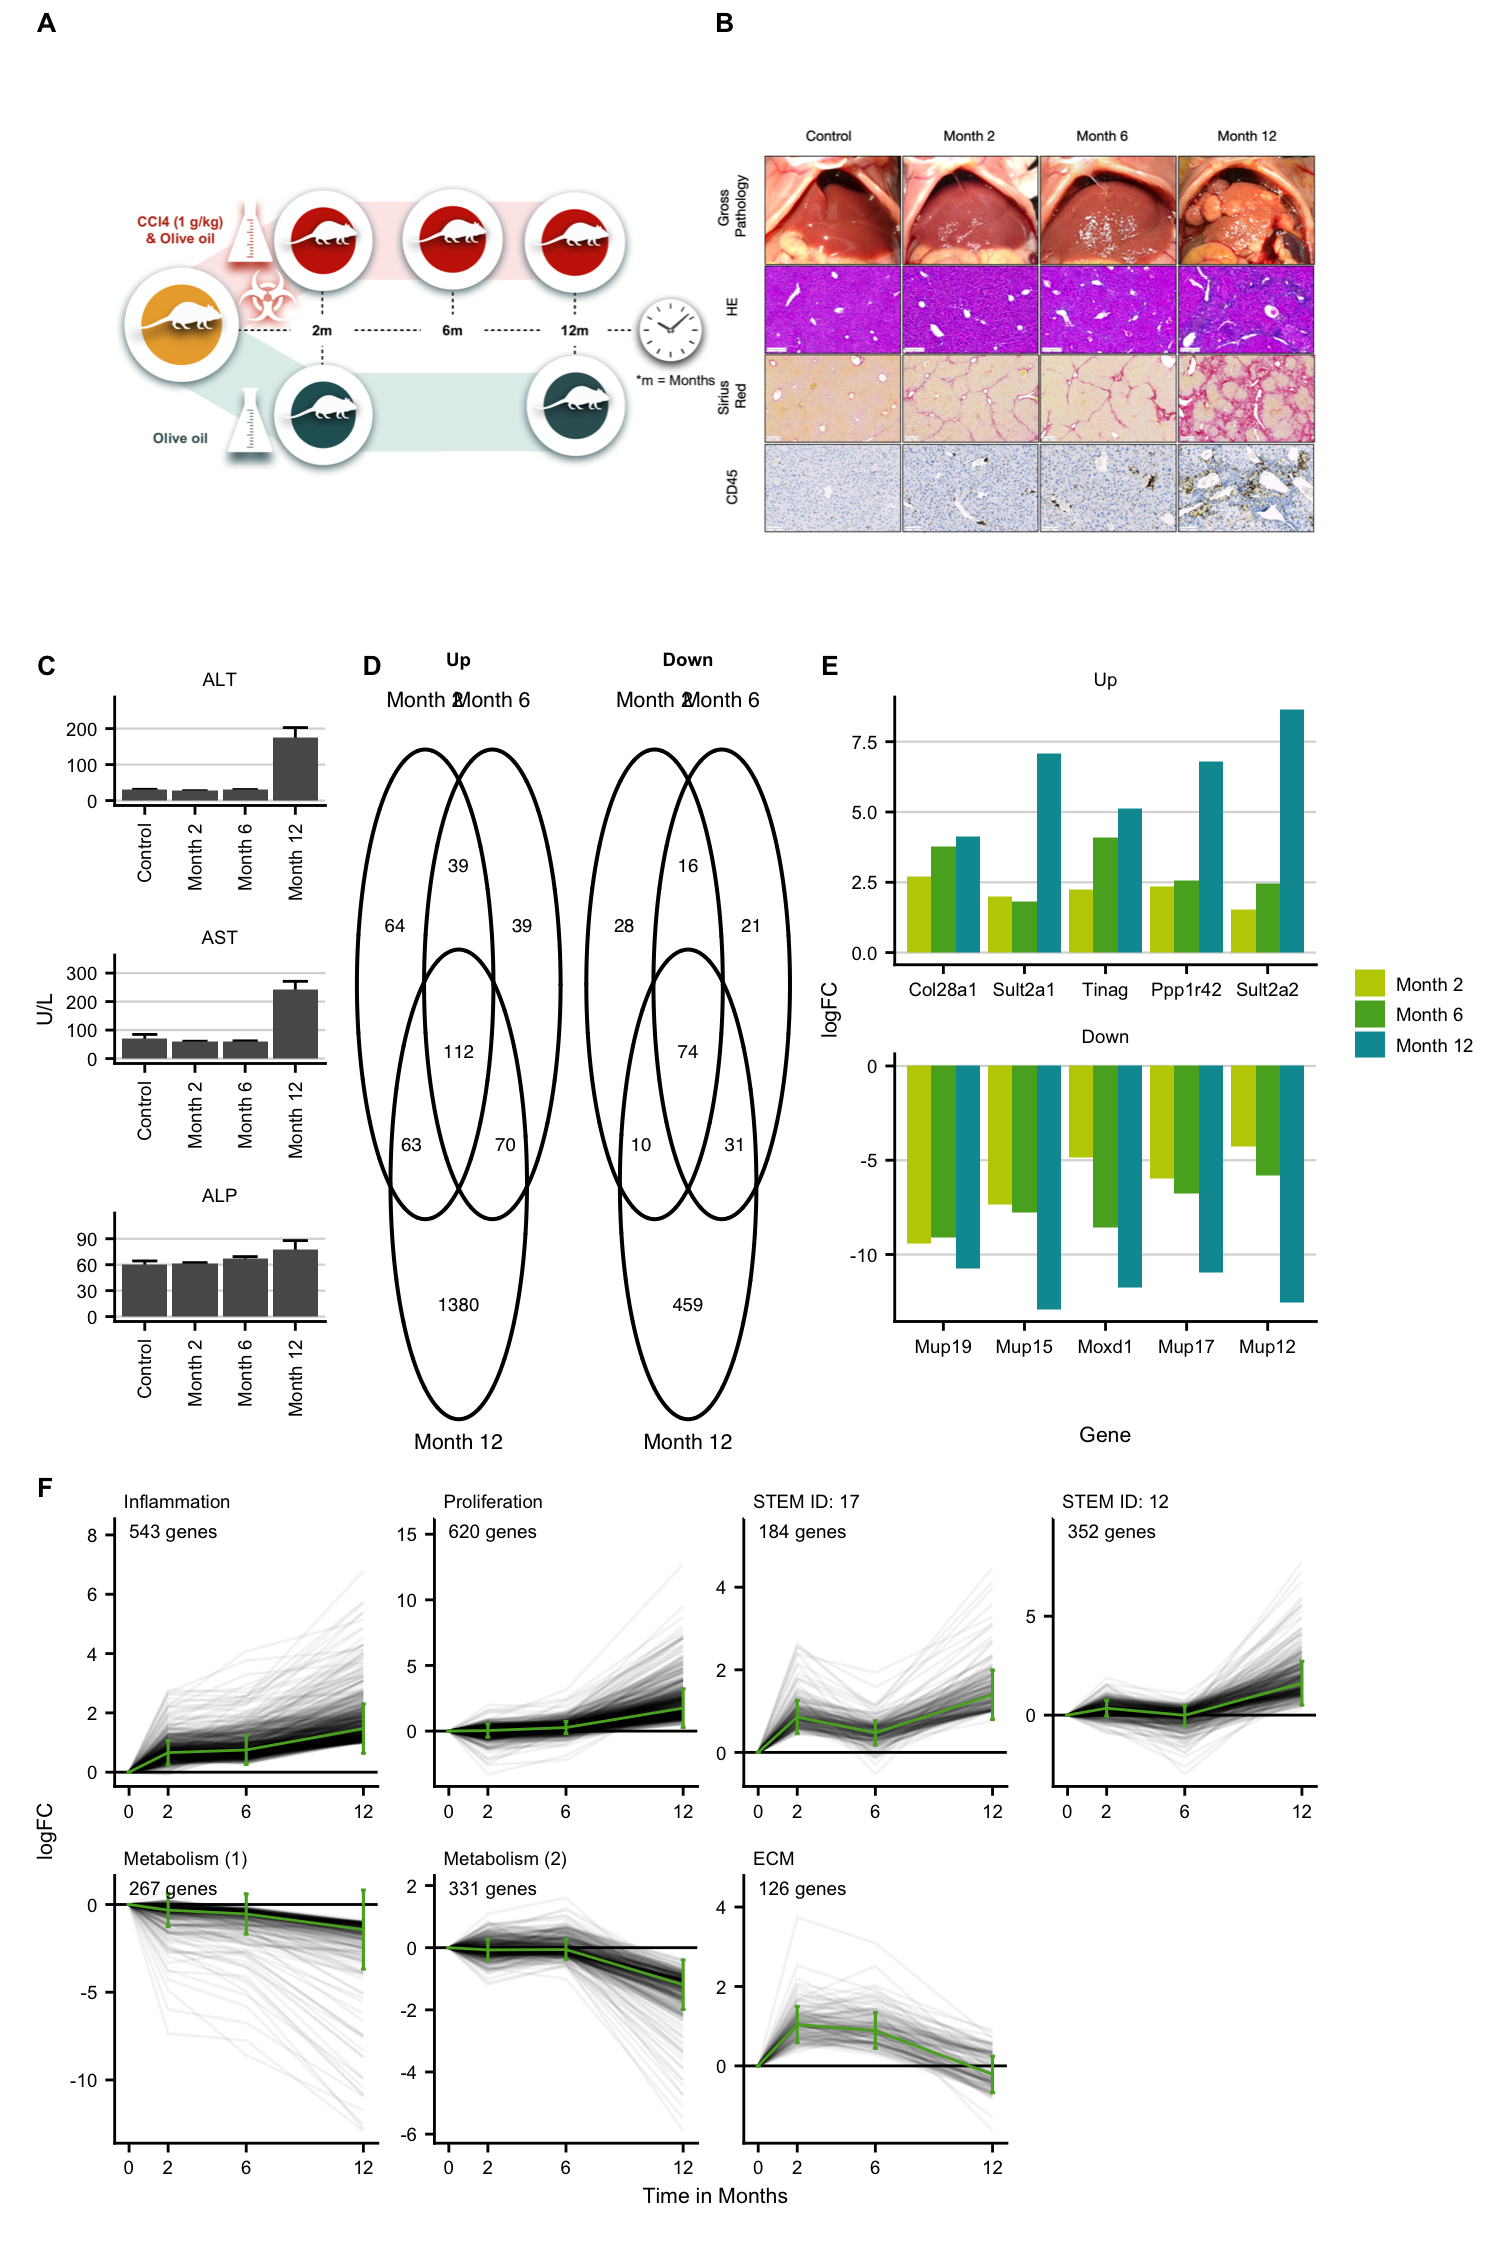
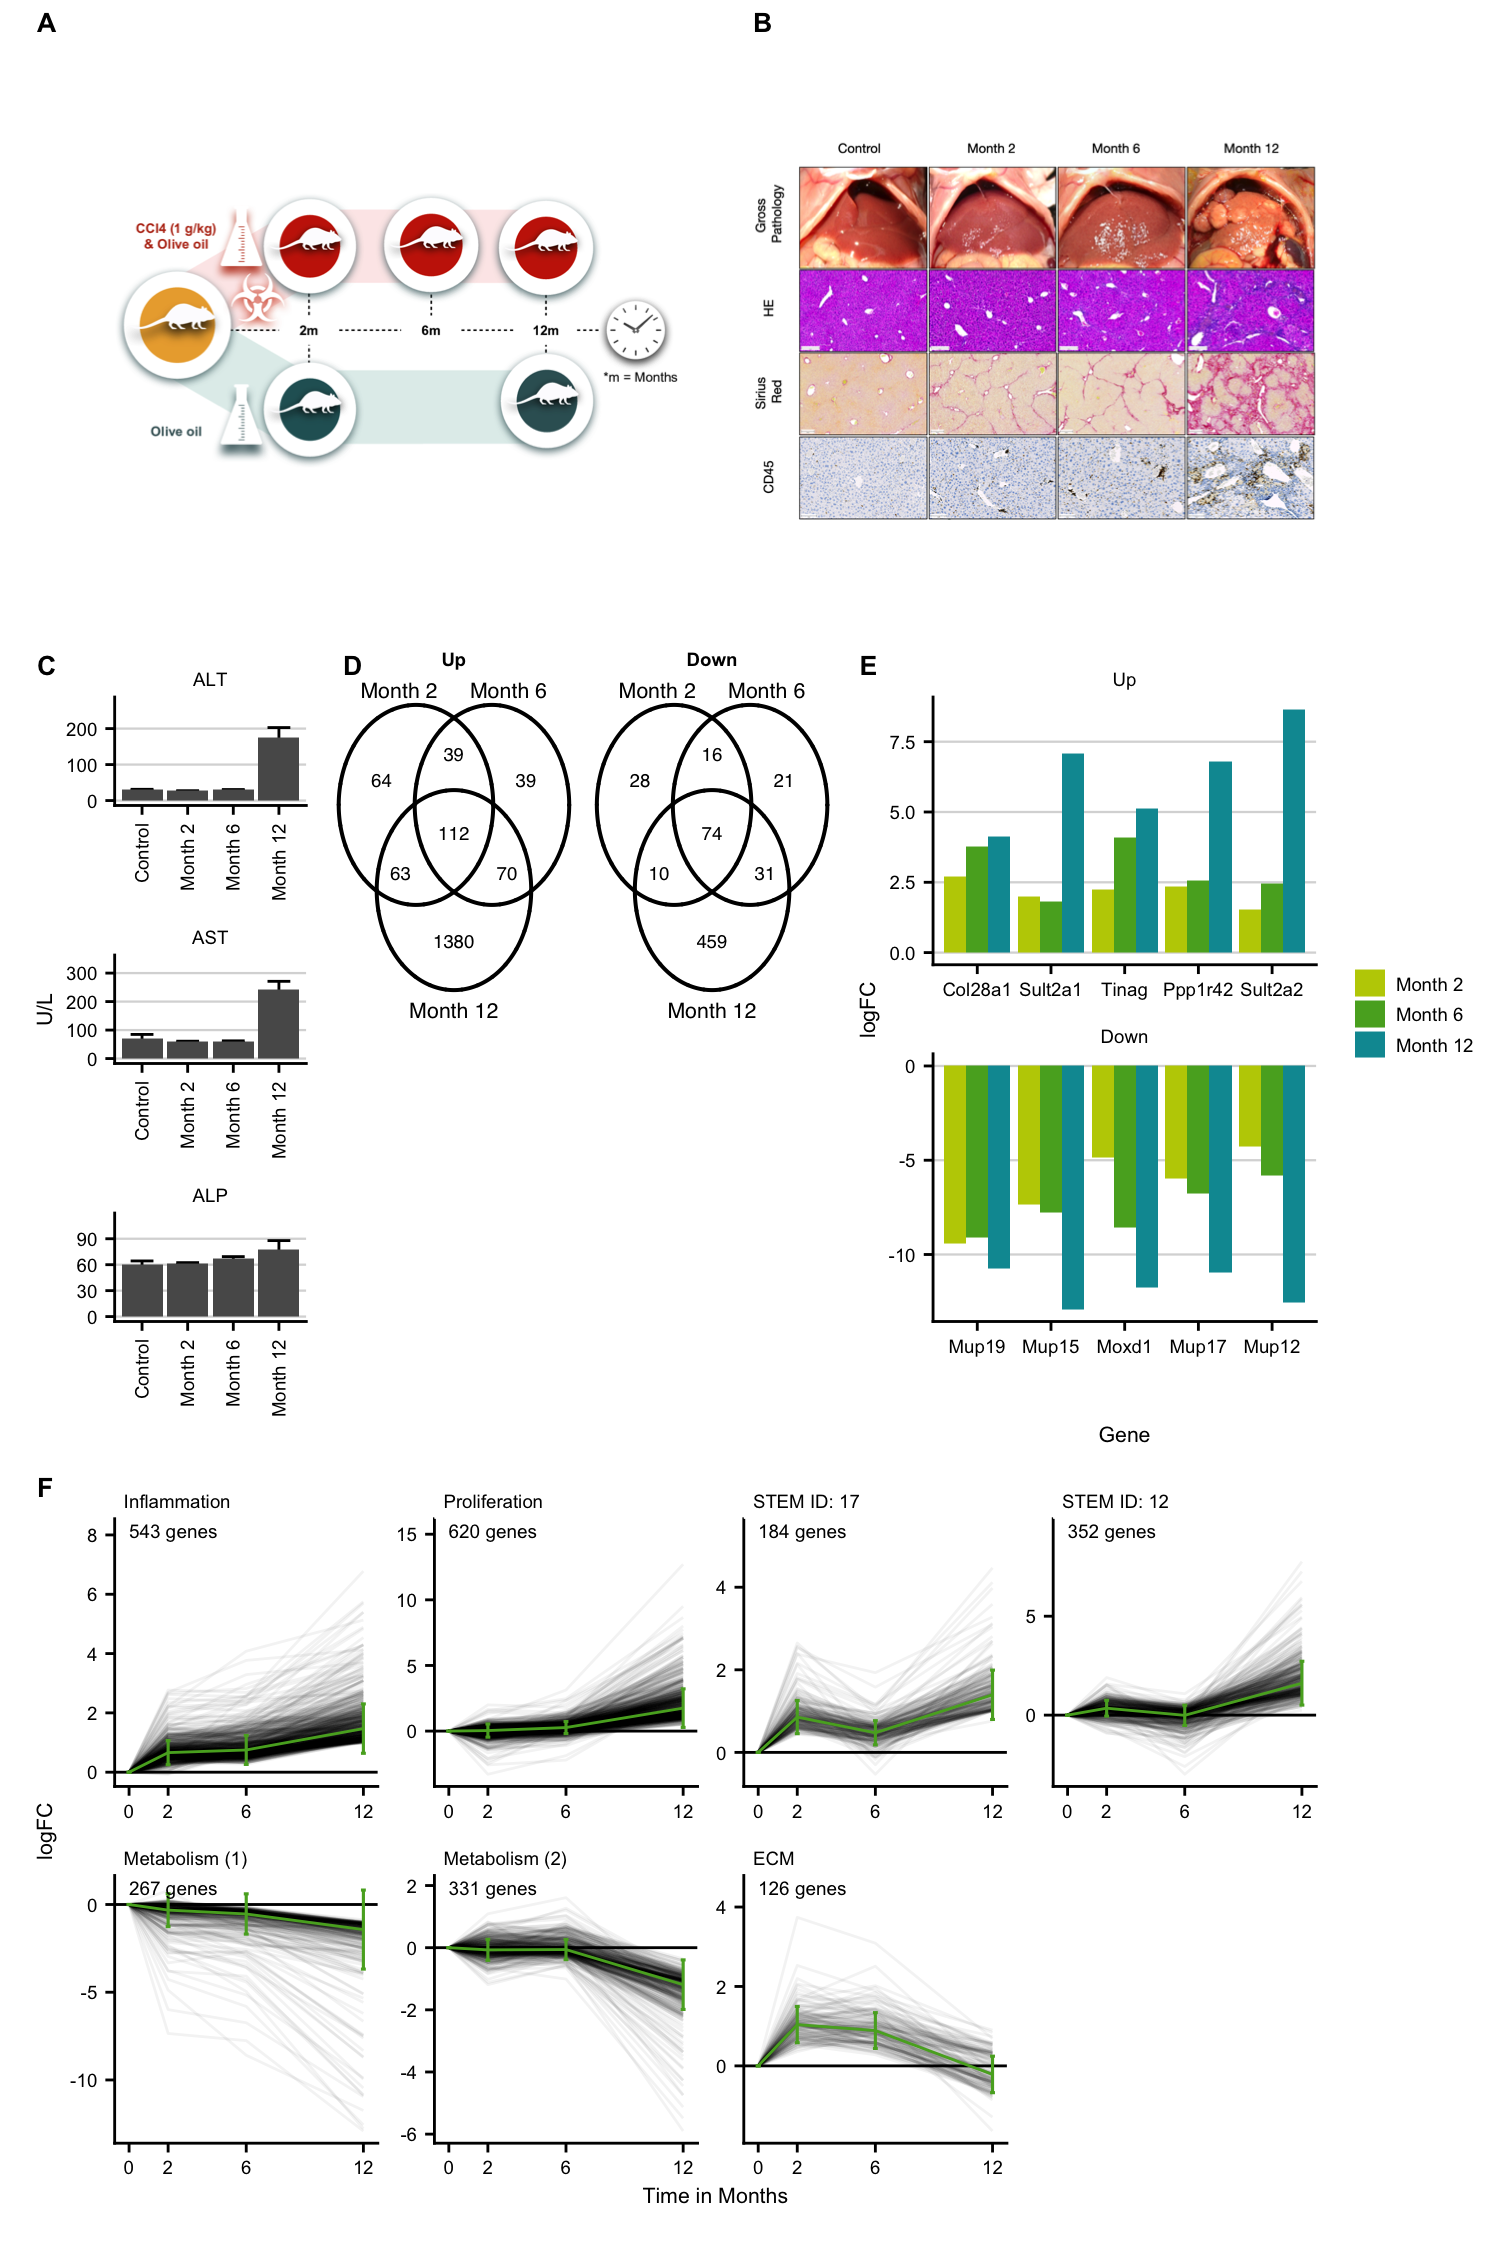
Build site.

diff --git a/docs/plot-chronic-ccl4.html b/docs/plot-chronic-ccl4.html
@@ -478,6 +478,12 @@ div.tocify {
     <li>
       <a href="plot-chronic-vs-acute.html">Chronic vs. acute (Fig. 3)</a>
     </li>
+    <li>
+      <a href="plot-mouse-vs-human.html">Mouse vs. human (Fig. 4)</a>
+    </li>
+    <li>
+      <a href="plot-precision-recall.html">Precision and recall of mouse models (Fig. 5)</a>
+    </li>
   </ul>
 </li>
       </ul>
@@ -538,7 +544,7 @@ div.tocify {
 <div class="tab-content">
 <div id="summary" class="tab-pane fade in active">
 <p>
-<strong>Last updated:</strong> 2020-12-23
+<strong>Last updated:</strong> 2021-01-05
 </p>
 <p>
 <strong>Checks:</strong> <span class="glyphicon glyphicon-ok text-success" aria-hidden="true"></span> 7 <span class="glyphicon glyphicon-exclamation-sign text-danger" aria-hidden="true"></span> 0
@@ -629,16 +635,16 @@ This reproducible <a href="http://rmarkdown.rstudio.com">R Markdown</a> analysis
 <div class="panel panel-default">
 <div class="panel-heading">
 <p class="panel-title">
-<a data-toggle="collapse" data-parent="#workflowr-checks" href="#strongRepositoryversionstrongahrefhttpsgithubcomsaezlabmetalivertreed4f78fae08eb96da82f28d39a0c6d2962abb7ecdtargetblankd4f78faa"> <span class="glyphicon glyphicon-ok text-success" aria-hidden="true"></span> <strong>Repository version:</strong> <a href="https://github.com/saezlab/meta-liver/tree/d4f78fae08eb96da82f28d39a0c6d2962abb7ecd" target="_blank">d4f78fa</a> </a>
+<a data-toggle="collapse" data-parent="#workflowr-checks" href="#strongRepositoryversionstrongahrefhttpsgithubcomsaezlabmetalivertree9f91208b2d719596cc07f2b9a0704edf0e8ada9etargetblank9f91208a"> <span class="glyphicon glyphicon-ok text-success" aria-hidden="true"></span> <strong>Repository version:</strong> <a href="https://github.com/saezlab/meta-liver/tree/9f91208b2d719596cc07f2b9a0704edf0e8ada9e" target="_blank">9f91208</a> </a>
 </p>
 </div>
[2 lines of base64/hex data omitted]
 <div class="panel-body">
 <p>
 Great! You are using Git for version control. Tracking code development and connecting the code version to the results is critical for reproducibility.
 </p>
 <p>
-The results in this page were generated with repository version <a href="https://github.com/saezlab/meta-liver/tree/d4f78fae08eb96da82f28d39a0c6d2962abb7ecd" target="_blank">d4f78fa</a>. See the <em>Past versions</em> tab to see a history of the changes made to the R Markdown and HTML files.
+The results in this page were generated with repository version <a href="https://github.com/saezlab/meta-liver/tree/9f91208b2d719596cc07f2b9a0704edf0e8ada9e" target="_blank">9f91208</a>. See the <em>Past versions</em> tab to see a history of the changes made to the R Markdown and HTML files.
 </p>
 <p>
 Note that you need to be careful to ensure that all relevant files for the analysis have been committed to Git prior to generating the results (you can use <code>wflow_publish</code> or <code>wflow_git_commit</code>). workflowr only checks the R Markdown file, but you know if there are other scripts or data files that it depends on. Below is the status of the Git repository when the results were generated:
@@ -667,10 +673,13 @@ Ignored files:
     Ignored:    analysis/plot-acute-ccl4_cache/
     Ignored:    analysis/plot-acute-ph_cache/
     Ignored:    analysis/plot-chronic-vs-acute_cache/
+    Ignored:    analysis/plot-mouse-vs-human_cache/
     Ignored:    analysis/plot-precision-recall_cache/
     Ignored:    analysis/plot-study-overview_cache/
+    Ignored:    analysis/plot-teufel-integration_cache/
     Ignored:    code/.DS_Store
     Ignored:    code/README.html
+    Ignored:    code/meta-mouse-vs-human/.DS_Store
     Ignored:    data/.DS_Store
     Ignored:    data/README.html
     Ignored:    data/annotation/
@@ -710,9 +719,16 @@ Ignored files:
     Ignored:    output/mouse-chronic-ccl4/
     Ignored:    renv/library/
     Ignored:    renv/staging/
+    Ignored:    tables/
+
+Untracked files:
+    Untracked:  analysis/save-tables.Rmd
 
 Unstaged changes:
-    Modified:   analysis/_site.yml
+    Modified:   analysis/plot-precision-recall.Rmd
+
+Staged changes:
+    Modified:   analysis/plot-chronic-vs-acute.Rmd
 
 </code></pre>
 <p>
@@ -751,6 +767,40 @@ Message
 </tr>
 </thead>
 <tbody>
+<tr>
+<td>
+Rmd
+</td>
+<td>
+<a href="https://github.com/saezlab/meta-liver/blob/9f91208b2d719596cc07f2b9a0704edf0e8ada9e/analysis/plot-chronic-ccl4.Rmd" target="_blank">9f91208</a>
+</td>
+<td>
+christianholland
+</td>
+<td>
+2021-01-05
+</td>
+<td>
+polished figures
+</td>
+</tr>
+<tr>
+<td>
+html
+</td>
+<td>
+<a href="https://rawcdn.githack.com/saezlab/meta-liver/067c9337e4cb6becda6b2d2ace64a70dc92107a3/docs/plot-chronic-ccl4.html" target="_blank">067c933</a>
+</td>
+<td>
+christianholland
+</td>
+<td>
+2020-12-23
+</td>
+<td>
+Build site.
+</td>
+</tr>
 <tr>
 <td>
 Rmd
@@ -845,7 +895,8 @@ key_mm &lt;- readRDS(here(&quot;data/meta-chronic-vs-acute/contrast_annotation.r
 <div id="design" class="section level2">
 <h2>Design</h2>
 <pre class="r"><code>design &lt;- ggdraw() +
-  draw_image(here(data_path, &quot;exp-design.pdf&quot;))</code></pre>
+  draw_image(here(data_path, &quot;exp-design.pdf&quot;)) +
+  theme(plot.margin = margin(r = 1, unit = &quot;cm&quot;))</code></pre>
 </div>
 <div id="histology" class="section level2">
 <h2>Histology</h2>
@@ -1140,7 +1191,8 @@ tables = df %&gt;%
   filter(contrast_reference == &quot;pure_ccl4&quot;) %&gt;%
   mutate(class = str_c(&quot;Month &quot;, parse_number(as.character(contrast)))) %&gt;%
   select(-contrast_reference, -contrast) %&gt;%
-  mutate(class = factor(class, levels = c(&quot;Month 2&quot;, &quot;Month 6&quot;, &quot;Month 12&quot;))) %&gt;%
+  mutate(class = factor(class, 
+                        levels = c(&quot;Month 2&quot;, &quot;Month 6&quot;, &quot;Month 12&quot;))) %&gt;%
   group_split(class)
 
 # extract labellers
@@ -1199,8 +1251,9 @@ plots = c(&quot;up&quot;, &quot;down&quot;) %&gt;%
       # cat.col = aachen_color(c(&quot;purple&quot;, &quot;petrol&quot;, &quot;red&quot;)),
       cat.cex = 1/12*(fz+1),
       cat.fontfamily = rep(&quot;sans&quot;, 3),
-      cat.pos = c(0,0,180),
-      cat.prompts = T
+      cat.pos = c(350,10,180),
+      cat.prompts = T,
+      cat.just = list(c(0.5, 1), c(0.5, 1), c(0.5, 1))
     ) %&gt;%
       as_ggplot() %&gt;%
       grid.arrange(top = textGrob(str_to_title(r), gp=gpar(fontsize=fz, 
@@ -1451,8 +1504,8 @@ christianholland
 <div id="figure-1" class="section level3">
 <h3>Figure 1</h3>
 <pre class="r"><code>fig1 &lt;- (design + histology) /
-  ((liver_enzymes | gene_overlap | top_overlap_genes) + 
-     plot_layout(widths = c(1,2,2))) /
+  ((liver_enzymes | (gene_overlap / plot_spacer()) | top_overlap_genes) + 
+     plot_layout(widths = c(1,2.5,2))) /
   ts_cluster +
   plot_layout(height = c(1, 1, 1)) +
   plot_annotation(tag_levels = list(c(&quot;A&quot;, &quot;B&quot;, &quot;C&quot;, &quot;D&quot;, &quot;&quot;, &quot;E&quot;, &quot;F&quot;))) &amp;
@@ -1565,7 +1618,7 @@ ggsave(here(&quot;figures/Supplementary Figure 1.1.pdf&quot;), sfig1_1,
 ggsave(here(&quot;figures/Supplementary Figure 1.1.png&quot;), sfig1_1,
   width = 21, height = 29.7, units = c(&quot;cm&quot;)
 )</code></pre>
-<p>Time spend to execute this analysis: 00:44 minutes.</p>
+<p>Time spend to execute this analysis: 00:48 minutes.</p>
 <br>
 <p>
 <button type="button" class="btn btn-default btn-workflowr btn-workflowr-sessioninfo" data-toggle="collapse" data-target="#workflowr-sessioninfo" style="display: block;">

diff --git a/docs/index.html b/docs/index.html
@@ -456,7 +456,7 @@ $(document).ready(function () {
 <div class="tab-content">
 <div id="summary" class="tab-pane fade in active">
 <p>
-<strong>Last updated:</strong> 2020-12-30
+<strong>Last updated:</strong> 2021-01-05
 </p>
 <p>
 <strong>Checks:</strong> <span class="glyphicon glyphicon-ok text-success" aria-hidden="true"></span> 2 <span class="glyphicon glyphicon-exclamation-sign text-danger" aria-hidden="true"></span> 0
@@ -487,16 +487,16 @@ This reproducible <a href="http://rmarkdown.rstudio.com">R Markdown</a> analysis
 <div class="panel panel-default">
 <div class="panel-heading">
 <p class="panel-title">
-<a data-toggle="collapse" data-parent="#workflowr-checks" href="#strongRepositoryversionstrongahrefhttpsgithubcomsaezlabmetalivertree26cc806777cddc295cc375b282b70905fde421e5targetblank26cc806a"> <span class="glyphicon glyphicon-ok text-success" aria-hidden="true"></span> <strong>Repository version:</strong> <a href="https://github.com/saezlab/meta-liver/tree/26cc806777cddc295cc375b282b70905fde421e5" target="_blank">26cc806</a> </a>
+<a data-toggle="collapse" data-parent="#workflowr-checks" href="#strongRepositoryversionstrongahrefhttpsgithubcomsaezlabmetalivertree9f91208b2d719596cc07f2b9a0704edf0e8ada9etargetblank9f91208a"> <span class="glyphicon glyphicon-ok text-success" aria-hidden="true"></span> <strong>Repository version:</strong> <a href="https://github.com/saezlab/meta-liver/tree/9f91208b2d719596cc07f2b9a0704edf0e8ada9e" target="_blank">9f91208</a> </a>
 </p>
 </div>
[2 lines of base64/hex data omitted]
 <div class="panel-body">
 <p>
 Great! You are using Git for version control. Tracking code development and connecting the code version to the results is critical for reproducibility.
 </p>
 <p>
-The results in this page were generated with repository version <a href="https://github.com/saezlab/meta-liver/tree/26cc806777cddc295cc375b282b70905fde421e5" target="_blank">26cc806</a>. See the <em>Past versions</em> tab to see a history of the changes made to the R Markdown and HTML files.
+The results in this page were generated with repository version <a href="https://github.com/saezlab/meta-liver/tree/9f91208b2d719596cc07f2b9a0704edf0e8ada9e" target="_blank">9f91208</a>. See the <em>Past versions</em> tab to see a history of the changes made to the R Markdown and HTML files.
 </p>
 <p>
 Note that you need to be careful to ensure that all relevant files for the analysis have been committed to Git prior to generating the results (you can use <code>wflow_publish</code> or <code>wflow_git_commit</code>). workflowr only checks the R Markdown file, but you know if there are other scripts or data files that it depends on. Below is the status of the Git repository when the results were generated:
@@ -532,6 +532,7 @@ Ignored files:
     Ignored:    analysis/plot-teufel-integration_cache/
     Ignored:    code/.DS_Store
     Ignored:    code/README.html
+    Ignored:    code/meta-mouse-vs-human/.DS_Store
     Ignored:    data/.DS_Store
     Ignored:    data/README.html
     Ignored:    data/annotation/
@@ -571,9 +572,16 @@ Ignored files:
     Ignored:    output/mouse-chronic-ccl4/
     Ignored:    renv/library/
     Ignored:    renv/staging/
+    Ignored:    tables/
+
+Untracked files:
+    Untracked:  analysis/save-tables.Rmd
 
 Unstaged changes:
-    Modified:   .gitignore
+    Modified:   analysis/plot-precision-recall.Rmd
+
+Staged changes:
+    Modified:   analysis/plot-chronic-vs-acute.Rmd
 
 </code></pre>
 <p>
@@ -612,6 +620,23 @@ Message
 </tr>
 </thead>
 <tbody>
+<tr>
+<td>
+html
+</td>
+<td>
+<a href="https://rawcdn.githack.com/saezlab/meta-liver/45c5848406234b136005dc618f9be05ba3fd97ec/docs/index.html" target="_blank">45c5848</a>
+</td>
+<td>
+christianholland
+</td>
+<td>
+2020-12-30
+</td>
+<td>
+Build site.
+</td>
+</tr>
 <tr>
 <td>
 html
